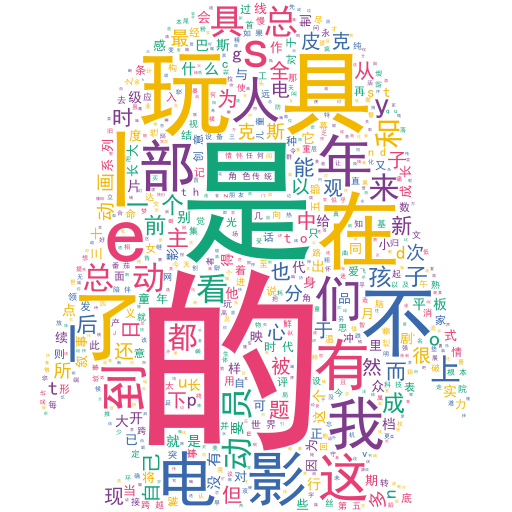
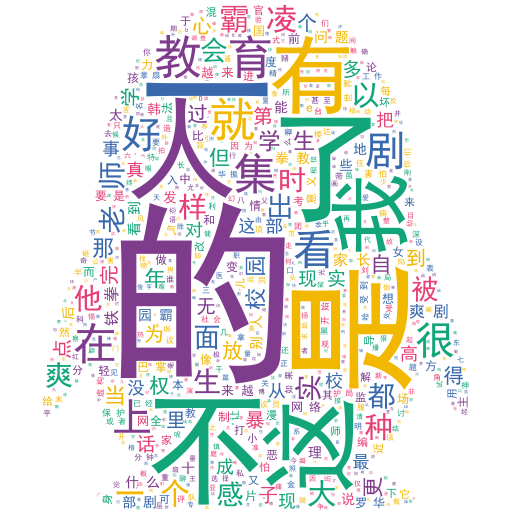
Prepare submission version

diff --git a/static/js/bigscreen-globe.js b/static/js/bigscreen-globe.js
@@ -25,6 +25,20 @@
     var cloudRotationSpeed = THREE.Math.degToRad(6.8);
     var baseTiltX = THREE.Math.degToRad(18);
     var clock = new THREE.Clock();
+    var autoRotationY = 0;
+    var cloudRotationY = 0;
+    var manualRotationY = 0;
+    var manualTiltX = 0;
+    var dragVelocityY = 0;
+    var dragVelocityX = 0;
+    var isDragging = false;
+    var lastPointerX = 0;
+    var lastPointerY = 0;
+    var pointerRotateScale = 0.0065;
+    var pointerTiltScale = 0.0042;
+    var maxTiltOffset = THREE.Math.degToRad(30);
+    var maxDragVelocityY = 0.08;
+    var maxDragVelocityX = 0.045;
 
     var countryCoords = {
         "中国大陆": [104, 35],
@@ -63,6 +77,10 @@
 
     function asset(path) {
         return "/static/images/earth/" + path;
+    }
+
+    function clamp(value, min, max) {
+        return Math.max(min, Math.min(max, value));
     }
 
     function resolveCoord(name) {
@@ -310,6 +328,77 @@
 
     var sceneParts = buildScene();
 
+    function setDragging(active) {
+        isDragging = active;
+        if (stage) {
+            stage.classList.toggle("is-dragging", active);
+        }
+    }
+
+    function beginDrag(event) {
+        if (event.button !== undefined && event.button !== 0) {
+            return;
+        }
+        setDragging(true);
+        lastPointerX = event.clientX;
+        lastPointerY = event.clientY;
+        dragVelocityY = 0;
+        dragVelocityX = 0;
+        if (canvas.setPointerCapture && event.pointerId !== undefined) {
+            canvas.setPointerCapture(event.pointerId);
+        }
+        event.preventDefault();
+    }
+
+    function moveDrag(event) {
+        if (!isDragging) {
+            return;
+        }
+
+        var dx = event.clientX - lastPointerX;
+        var dy = event.clientY - lastPointerY;
+        var rotationDelta = dx * pointerRotateScale;
+        var tiltDelta = dy * pointerTiltScale;
+
+        manualRotationY += rotationDelta;
+        manualTiltX = clamp(manualTiltX + tiltDelta, -maxTiltOffset, maxTiltOffset);
+        dragVelocityY = clamp(rotationDelta, -maxDragVelocityY, maxDragVelocityY);
+        dragVelocityX = clamp(tiltDelta, -maxDragVelocityX, maxDragVelocityX);
+        lastPointerX = event.clientX;
+        lastPointerY = event.clientY;
+        event.preventDefault();
+    }
+
+    function endDrag(event) {
+        if (!isDragging) {
+            return;
+        }
+        setDragging(false);
+        if (reduceMotion) {
+            dragVelocityY = 0;
+            dragVelocityX = 0;
+        }
+        if (canvas.releasePointerCapture && event && event.pointerId !== undefined && canvas.hasPointerCapture(event.pointerId)) {
+            canvas.releasePointerCapture(event.pointerId);
+        }
+    }
+
+    function bindDrag() {
+        canvas.addEventListener("pointerdown", beginDrag);
+        canvas.addEventListener("pointermove", moveDrag);
+        canvas.addEventListener("pointerup", endDrag);
+        canvas.addEventListener("pointercancel", endDrag);
+        canvas.addEventListener("lostpointercapture", endDrag);
+        canvas.addEventListener("dragstart", function (event) {
+            event.preventDefault();
+        });
+        window.addEventListener("blur", function () {
+            setDragging(false);
+            dragVelocityY = 0;
+            dragVelocityX = 0;
+        });
+    }
+
     function resize() {
         var rect = stage.getBoundingClientRect();
         var width = Math.max(1, rect.width);
@@ -335,18 +424,37 @@
     }
 
     function render() {
-        var elapsed = clock.getElapsedTime();
+        var delta = Math.min(clock.getDelta(), 0.05);
+        var elapsed = clock.elapsedTime;
         if (!reduceMotion) {
-            earthGroup.rotation.y = baseRotationY + elapsed * autoRotationSpeed;
-            earthGroup.rotation.x = baseTiltX + Math.sin(elapsed * 0.34) * THREE.Math.degToRad(1.4);
-            sceneParts.clouds.rotation.y = textureRotationY + elapsed * cloudRotationSpeed;
+            autoRotationY += autoRotationSpeed * delta;
+            cloudRotationY += cloudRotationSpeed * delta;
         }
+
+        if (!isDragging && !reduceMotion && (Math.abs(dragVelocityY) > 0.0001 || Math.abs(dragVelocityX) > 0.0001)) {
+            manualRotationY += dragVelocityY;
+            manualTiltX = clamp(manualTiltX + dragVelocityX, -maxTiltOffset, maxTiltOffset);
+            var damping = Math.pow(0.08, delta);
+            dragVelocityY *= damping;
+            dragVelocityX *= damping;
+            if (Math.abs(dragVelocityY) <= 0.0001) {
+                dragVelocityY = 0;
+            }
+            if (Math.abs(dragVelocityX) <= 0.0001) {
+                dragVelocityX = 0;
+            }
+        }
+
+        earthGroup.rotation.y = baseRotationY + autoRotationY + manualRotationY;
+        earthGroup.rotation.x = baseTiltX + manualTiltX + (reduceMotion ? 0 : Math.sin(elapsed * 0.34) * THREE.Math.degToRad(1.4));
+        sceneParts.clouds.rotation.y = textureRotationY + cloudRotationY;
         updateMarkerVisibility();
         renderer.render(scene, camera);
         requestAnimationFrame(render);
     }
 
     resize();
+    bindDrag();
     window.addEventListener("resize", resize);
     render();
 })();

diff --git a/static/html/comment_data.html b/static/html/comment_data.html
@@ -8,11 +8,11 @@
     
 </head>
 <body >
-    <div id="61d13a395e7f458d9c70165beefa2529" class="chart-container" style="width:100%; height:100%; "></div>
+    <div id="684d97ad954f4535b4abb6e44c50dfd2" class="chart-container" style="width:100%; height:100%; "></div>
     <script>
-        var chart_61d13a395e7f458d9c70165beefa2529 = echarts.init(
-            document.getElementById('61d13a395e7f458d9c70165beefa2529'), 'white', {renderer: 'canvas', locale: 'ZH'});
-        var option_61d13a395e7f458d9c70165beefa2529 = {
+        var chart_684d97ad954f4535b4abb6e44c50dfd2 = echarts.init(
+            document.getElementById('684d97ad954f4535b4abb6e44c50dfd2'), 'white', {renderer: 'canvas', locale: 'ZH'});
+        var option_684d97ad954f4535b4abb6e44c50dfd2 = {
     "animation": true,
     "animationThreshold": 2000,
     "animationDuration": 1000,
@@ -257,9 +257,9 @@
         }
     ]
 };
-        chart_61d13a395e7f458d9c70165beefa2529.setOption(option_61d13a395e7f458d9c70165beefa2529);
+        chart_684d97ad954f4535b4abb6e44c50dfd2.setOption(option_684d97ad954f4535b4abb6e44c50dfd2);
             window.addEventListener('resize', function(){
-                chart_61d13a395e7f458d9c70165beefa2529.resize();
+                chart_684d97ad954f4535b4abb6e44c50dfd2.resize();
             })
     </script>
 </body>

diff --git a/static/html/lang_data.html b/static/html/lang_data.html
@@ -8,11 +8,11 @@
     
 </head>
 <body >
-    <div id="9a7b7cc629674e03828f365af2038fba" class="chart-container" style="width:100%; height:100%; "></div>
+    <div id="7b4c9b258cdd4ea28c8922f66db8640b" class="chart-container" style="width:100%; height:100%; "></div>
     <script>
-        var chart_9a7b7cc629674e03828f365af2038fba = echarts.init(
-            document.getElementById('9a7b7cc629674e03828f365af2038fba'), 'white', {renderer: 'canvas', locale: 'ZH'});
-        var option_9a7b7cc629674e03828f365af2038fba = {
+        var chart_7b4c9b258cdd4ea28c8922f66db8640b = echarts.init(
+            document.getElementById('7b4c9b258cdd4ea28c8922f66db8640b'), 'white', {renderer: 'canvas', locale: 'ZH'});
+        var option_7b4c9b258cdd4ea28c8922f66db8640b = {
     "animation": true,
     "animationThreshold": 2000,
     "animationDuration": 1000,
@@ -182,9 +182,9 @@
         "#a78bfa"
     ]
 };
-        chart_9a7b7cc629674e03828f365af2038fba.setOption(option_9a7b7cc629674e03828f365af2038fba);
+        chart_7b4c9b258cdd4ea28c8922f66db8640b.setOption(option_7b4c9b258cdd4ea28c8922f66db8640b);
             window.addEventListener('resize', function(){
-                chart_9a7b7cc629674e03828f365af2038fba.resize();
+                chart_7b4c9b258cdd4ea28c8922f66db8640b.resize();
             })
     </script>
 </body>

diff --git a/static/html/type_data.html b/static/html/type_data.html
@@ -8,11 +8,11 @@
     
 </head>
 <body >
-    <div id="051c9c75ac5e4e929ef940d08700d2dc" class="chart-container" style="width:100%; height:100%; "></div>
+    <div id="aa3f6a4102df40268c516d71f2e731e2" class="chart-container" style="width:100%; height:100%; "></div>
     <script>
-        var chart_051c9c75ac5e4e929ef940d08700d2dc = echarts.init(
-            document.getElementById('051c9c75ac5e4e929ef940d08700d2dc'), 'white', {renderer: 'canvas', locale: 'ZH'});
-        var option_051c9c75ac5e4e929ef940d08700d2dc = {
+        var chart_aa3f6a4102df40268c516d71f2e731e2 = echarts.init(
+            document.getElementById('aa3f6a4102df40268c516d71f2e731e2'), 'white', {renderer: 'canvas', locale: 'ZH'});
+        var option_aa3f6a4102df40268c516d71f2e731e2 = {
     "animation": true,
     "animationThreshold": 2000,
     "animationDuration": 1000,
@@ -197,9 +197,9 @@
         "#a78bfa"
     ]
 };
-        chart_051c9c75ac5e4e929ef940d08700d2dc.setOption(option_051c9c75ac5e4e929ef940d08700d2dc);
+        chart_aa3f6a4102df40268c516d71f2e731e2.setOption(option_aa3f6a4102df40268c516d71f2e731e2);
             window.addEventListener('resize', function(){
-                chart_051c9c75ac5e4e929ef940d08700d2dc.resize();
+                chart_aa3f6a4102df40268c516d71f2e731e2.resize();
             })
     </script>
 </body>

diff --git a/static/html/year_data.html b/static/html/year_data.html
@@ -8,11 +8,11 @@
     
 </head>
 <body >
-    <div id="35707e860b444aec8ea01ef4e95001b4" class="chart-container" style="width:100%; height:100%; "></div>
+    <div id="2a0793270b9e49d19d00f7a6755bf29e" class="chart-container" style="width:100%; height:100%; "></div>
     <script>
-        var chart_35707e860b444aec8ea01ef4e95001b4 = echarts.init(
-            document.getElementById('35707e860b444aec8ea01ef4e95001b4'), 'white', {renderer: 'canvas', locale: 'ZH'});
-        var option_35707e860b444aec8ea01ef4e95001b4 = {
+        var chart_2a0793270b9e49d19d00f7a6755bf29e = echarts.init(
+            document.getElementById('2a0793270b9e49d19d00f7a6755bf29e'), 'white', {renderer: 'canvas', locale: 'ZH'});
+        var option_2a0793270b9e49d19d00f7a6755bf29e = {
     "animation": true,
     "animationThreshold": 2000,
     "animationDuration": 1000,
@@ -241,9 +241,9 @@
         }
     ]
 };
-        chart_35707e860b444aec8ea01ef4e95001b4.setOption(option_35707e860b444aec8ea01ef4e95001b4);
+        chart_2a0793270b9e49d19d00f7a6755bf29e.setOption(option_2a0793270b9e49d19d00f7a6755bf29e);
             window.addEventListener('resize', function(){
-                chart_35707e860b444aec8ea01ef4e95001b4.resize();
+                chart_2a0793270b9e49d19d00f7a6755bf29e.resize();
             })
     </script>
 </body>

diff --git a/static/css/index.css b/static/css/index.css
@@ -280,12 +280,19 @@ li {
 .globe-stage {
     position: absolute;
     inset: 0;
+    user-select: none;
 }
 
 #globeCanvas {
     display: block;
     width: 100%;
     height: 100%;
+    cursor: grab;
+    touch-action: none;
+}
+
+.globe-stage.is-dragging #globeCanvas {
+    cursor: grabbing;
 }
 
 .globe-hud,